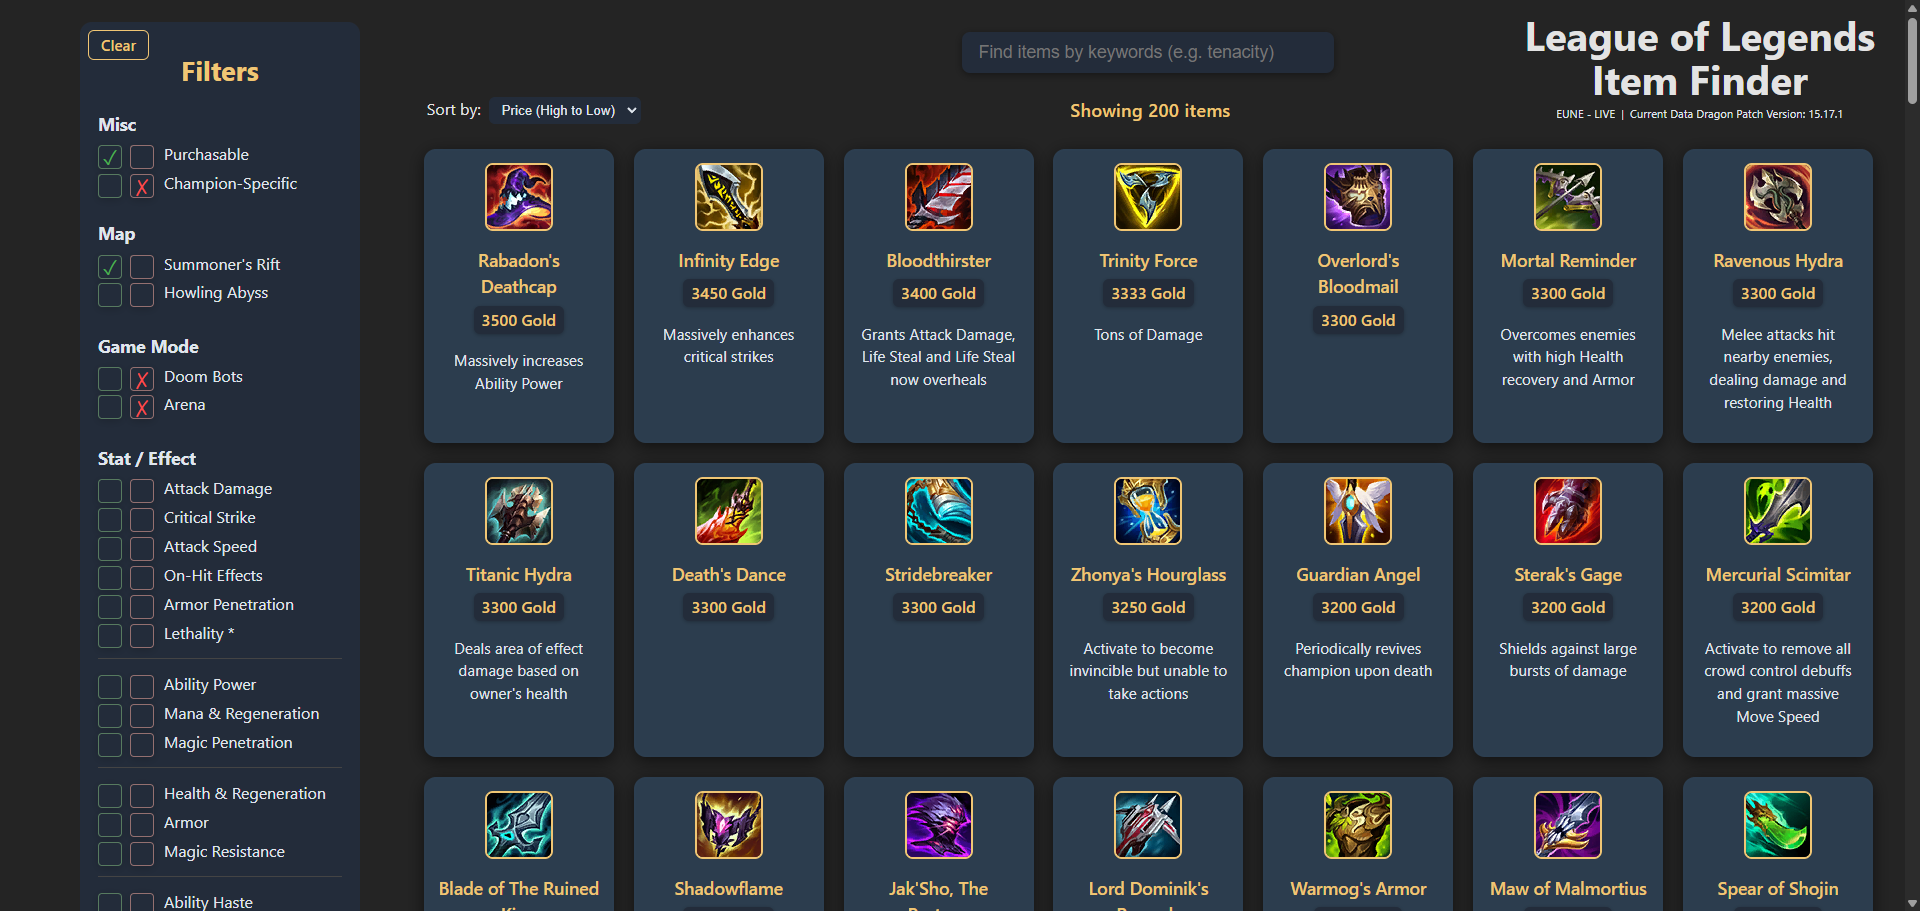
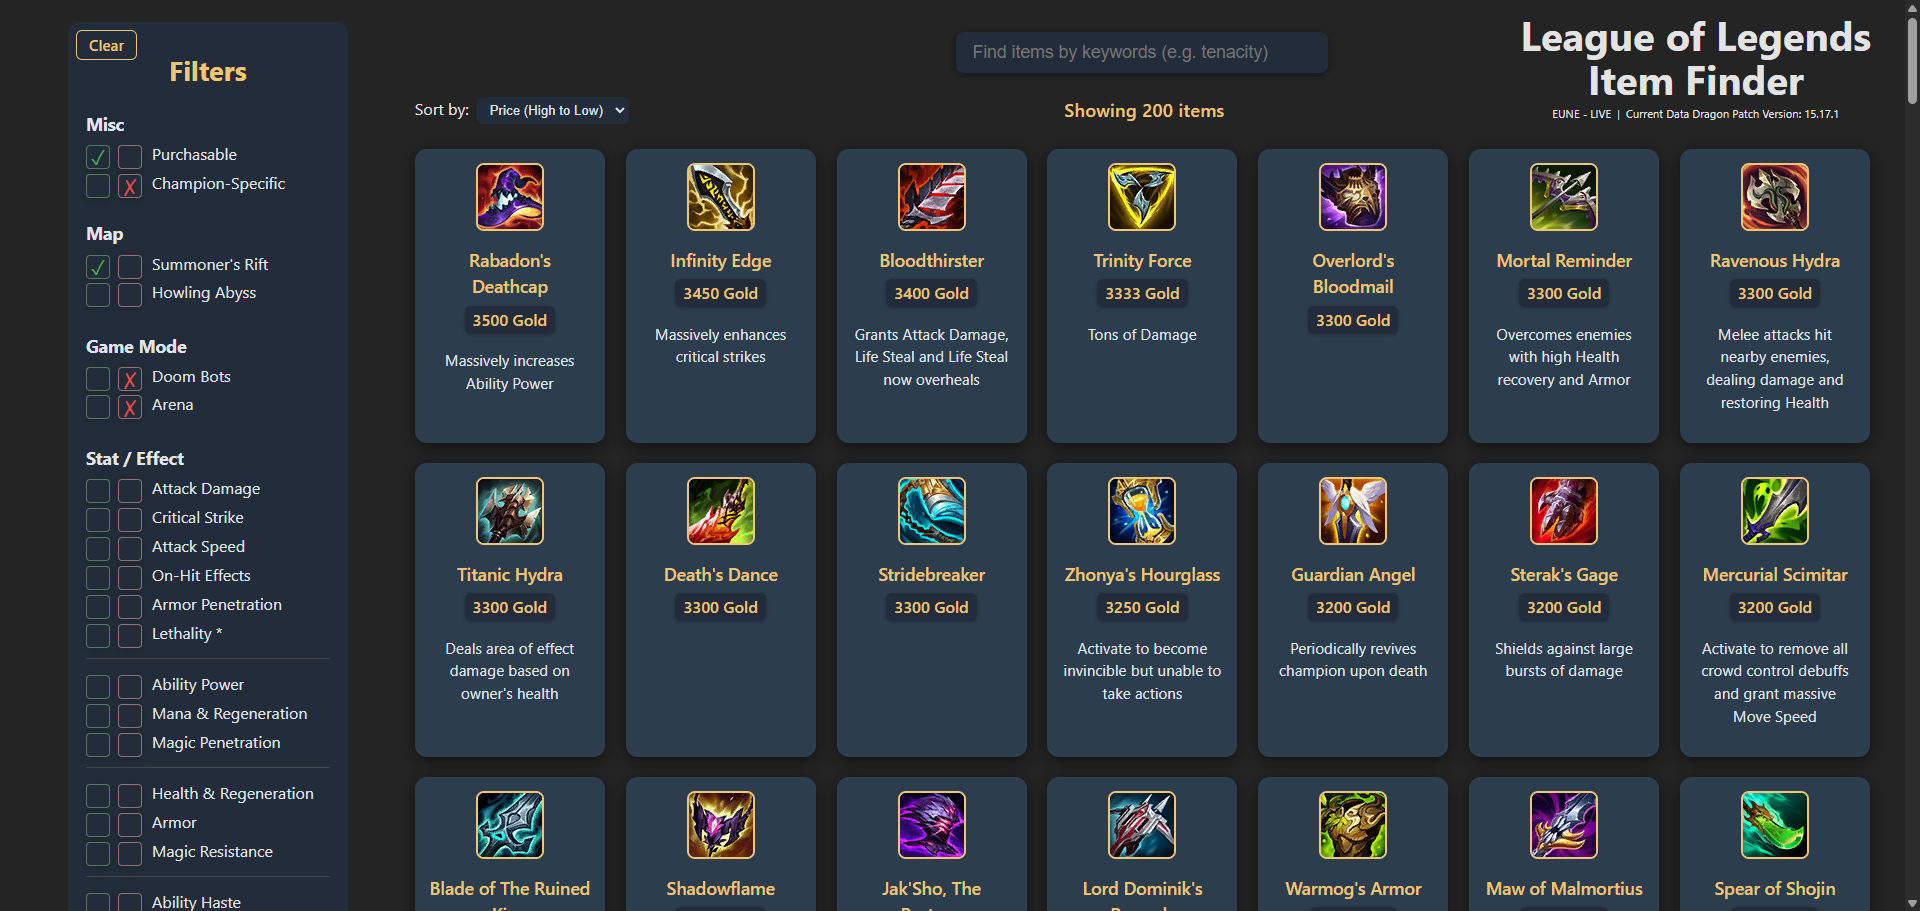
update app screenshots; adjust CSS styles for improved layout and spacing

diff --git a/lol-itemfinder/src/styles/MainTitle.css b/lol-itemfinder/src/styles/MainTitle.css
@@ -26,7 +26,8 @@
   /* padding: 16px 32px 0 0; */
   /* padding: 5px 42px 0px 0px; */
   /* padding: 5px 30px 0px 0px; */
-  padding: 5px 30px 0px 0px;
+  /* padding: 5px 30px 0px 0px; */
+  padding: 5px 34px 0px 0px;
   /* border: 3px solid #f0c674;  */
   /* visibility enhancer*/
   /* background: transparent; */

diff --git a/lol-itemfinder/src/styles/Filters.css b/lol-itemfinder/src/styles/Filters.css
@@ -7,7 +7,8 @@
   /* margin-top: 15px; */
   margin-top: 22px;
   margin-bottom: 22px;
-  margin-left: 80px;
+  /* margin-left: 80px; */
+  margin-left: 68px;
   margin-right: auto;
   /* min-height: 80vh; */
   min-height: auto;
